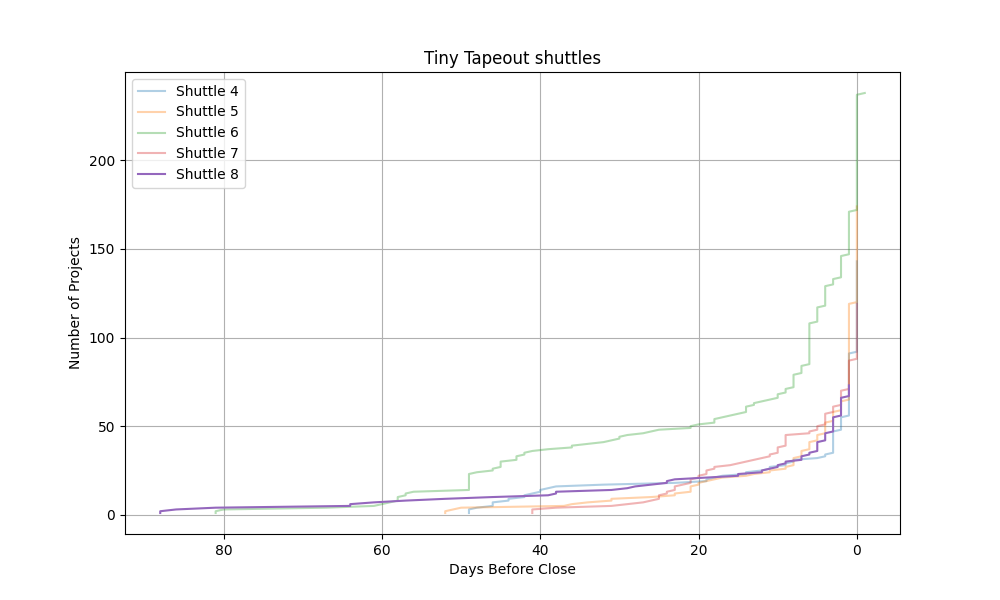
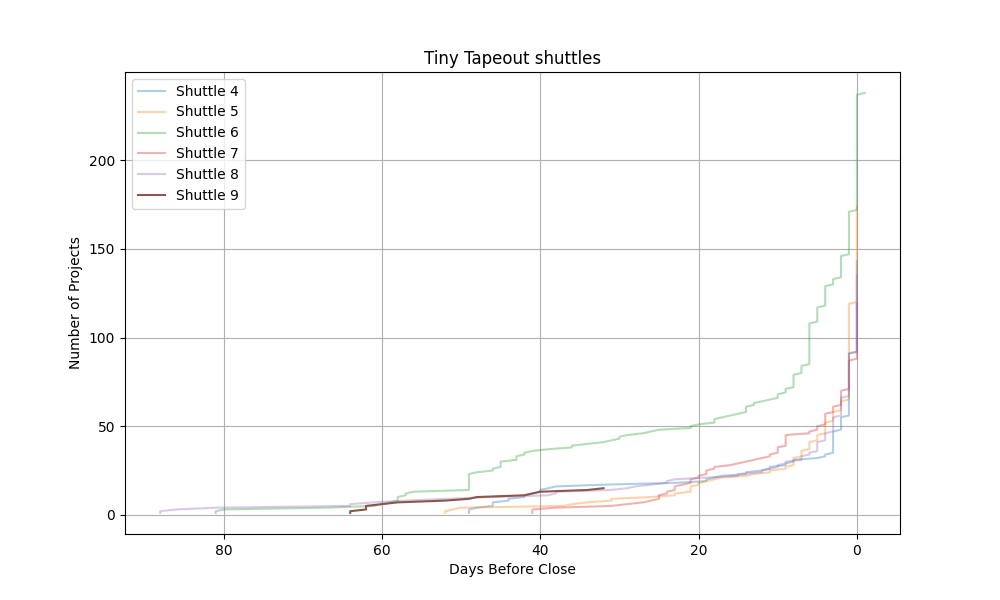
update for tt09

diff --git a/parse.py b/parse.py
@@ -5,7 +5,7 @@ import matplotlib.pyplot as plt
 df = pd.read_csv('data.csv')
 
 # Add deadlines for each shuttle
-shuttle_deadlines = {4: "2023-09-08", 5: "2023-11-04", 6: "2024-04-19", 7: "2024-06-01", 8: "2024-09-06"}
+shuttle_deadlines = {4: "2023-09-08", 5: "2023-11-04", 6: "2024-04-19", 7: "2024-06-01", 8: "2024-09-06", 9: "2024-11-10"}
 
 # Convert deadlines to datetime objects
 for shuttle_id, deadline in shuttle_deadlines.items():
@@ -32,7 +32,7 @@ for shuttle_id, group in df.groupby('shuttle_id'):
     print(f"shuttle {shuttle_id} : {group['cumulative_projects'].values[-1]}")
     linestyle = 'dotted'
     alpha = 0.35
-    if shuttle_id == 8:
+    if shuttle_id == 9:
         linestyle = 'solid'
         alpha = 1
     plt.plot(group['days_before_close'].values, group['cumulative_projects'].values, label=f"Shuttle {shuttle_id}", alpha=alpha) #linestyle=linestyle)
